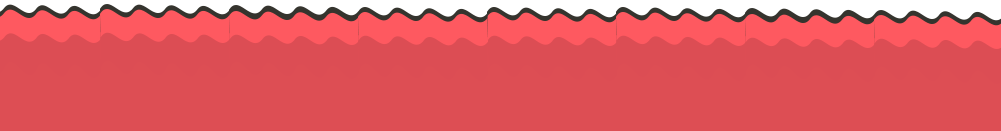
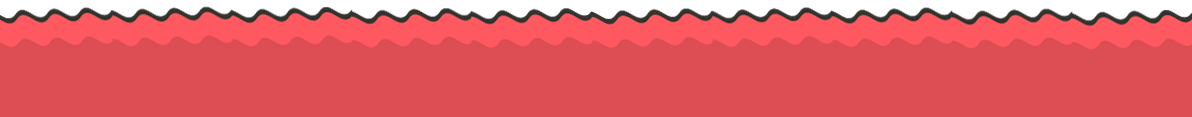
spawn map and item properly now

Changed region(s): [[0.0, 0.0256, 1.0, 0.2308], [0.0, 0.2564, 1.0, 0.4103]]

diff --git a/src/game.js b/src/game.js
@@ -1,30 +1,57 @@
+var width = window.innerWidth // 981
+var height = window.innerHeight // 553
+
+var platforms = ["floating", "wide", "normal", "tall"]
+var items = ["diamond", "enemy", "player", "star"]
+
+var wave_y = 0.8 * height
+
+var platform_normal_x = 0 * width
+var platform_normal_y = 0.6 * height
+
+var platform_floating_x = 0.2 * width
+var platform_floating_y = 0.2 * height
+
+var platform_high_x = 0.45 * width
+var platform_high_y = 0.3 * height
+
+var platform_wide_x = 0.75 * width
+var platform_wide_y = 0.65 * height
+
 Game = {
   start: function() {
-    var width = window.innerWidth
-    var height = window.innerHeight
+
     Crafty.init(width, height)
-    // platform 
 
-    // decoration
-
-    // character 
-
-    Crafty.e("2D, DOM, Image").attr({x: 0, y: 500}).image("assets/wave.png")
-    Crafty.e("2D, DOM, Image").attr({x: 0, y: 450}).image("assets/platform_normal.png")
-    Crafty.e("2D, DOM, Image").attr({x: 200, y: 150}).image("assets/platform_high.png")
-    Crafty.e("2D, DOM, Image").attr({x: 500, y: 300}).image("assets/platform_float.png")
-    Crafty.e("2D, DOM, Image").attr({x: 700, y: 350}).image("assets/platform_wide.png")
-    Crafty.e("2D, DOM, Image").attr({x: 300, y: 120}).image("assets/character.png")
-    Crafty.e("2D, DOM, Image").attr({x: 120, y: 410}).image("assets/character_2.png")
-    Crafty.e("2D, DOM, Image").attr({x: 50, y: 420}).image("assets/diamond.png")
-    Crafty.e("2D, DOM, Image").attr({x: 850, y: 320}).image("assets/wood.png")
-    Crafty.e("2D, DOM, Image").attr({x: 850, y: 250}).image("assets/cloud.png")
-    Crafty.e("2D, DOM, Image").attr({x: 530, y: 270}).image("assets/star.png")
-    Crafty.e("2D, DOM, Image").attr({x: 600, y: 270}).image("assets/star.png")
+    // dynamic map generation 
+    // iphone 6 dependent 
+    // platform  1. normal 2. floating 3. wide  4. tall narrow
+    // task 1. diamond award 2. enemy 3. character 2 question 4. counting stars
     
-    Crafty.e("2D, DOM, Image").attr({x: 770, y: 317}).image("assets/grass.png")
+    // wave first
+    spawn (0, wave_y, "wave")
+    // for each platform from left to right
+    // normal
+    spawn (platform_normal_x, platform_normal_y, "platform_normal")
+    spawn (platform_normal_x + 70, platform_normal_y - 30, "star")
 
+    // floating
+    spawn (platform_floating_x, platform_floating_y, "platform_floating")
+    spawn (platform_floating_x + 40, platform_floating_y - 30, "diamond")
+
+    // high
+    spawn (platform_high_x, platform_high_y, "platform_high")
+    spawn (platform_high_x + 20, platform_high_y - 30, "player")
+
+    // wide + wood + grass + character_2 + cloud
+    spawn (platform_wide_x, platform_wide_y, "platform_wide")
+    spawn (platform_wide_x + 40, platform_wide_y - 34, "character_2")
+    spawn (platform_wide_x + 100, platform_wide_y - 34, "grass")
+    spawn (platform_wide_x + 170, platform_wide_y - 30, "wood")
+    spawn (platform_wide_x + 170, platform_wide_y - 80, "cloud")
   }
 }
+
+function spawn(_x, _y, name) { return Crafty.e("2D, DOM, Image").attr({x: _x, y: _y}).image("assets/" + name + ".png") }
 
 
